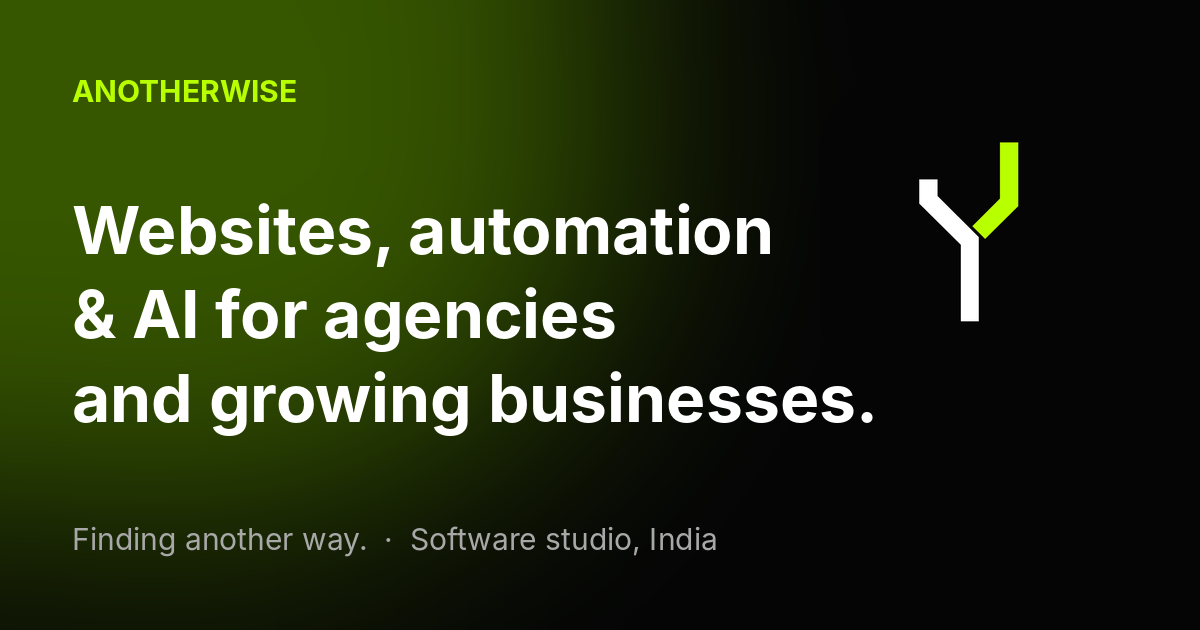
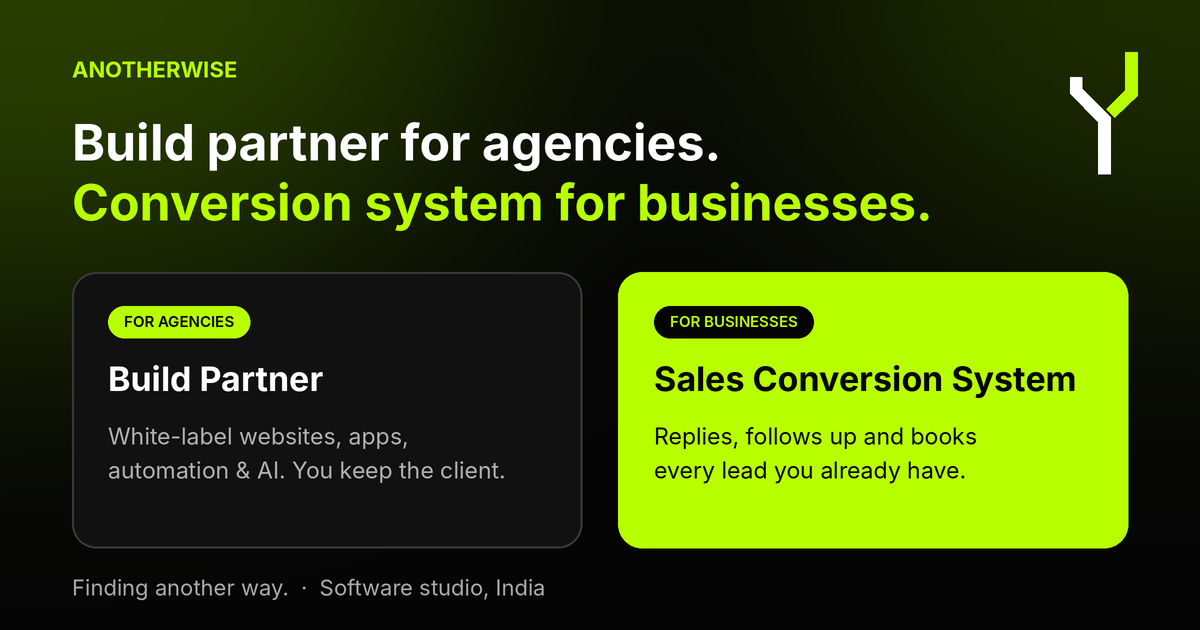
New social share image

diff --git a/index.html b/index.html
@@ -16,20 +16,20 @@
 <meta property="og:title" content="Agency Build Partner &amp; Lead Conversion System | Anotherwise">
 <meta property="og:description" content="Build partner for agencies: white-label websites, apps, automation and AI. For businesses: a sales conversion system that follows up and books every lead.">
 <meta property="og:url" content="https://anotherwise.netlify.app/">
-<meta property="og:image" content="https://anotherwise.netlify.app/og-image.png">
+<meta property="og:image" content="https://anotherwise.netlify.app/og-image.png?v=202611230016">
 <meta property="og:image:width" content="1200">
 <meta property="og:image:height" content="630">
 <meta property="og:image:alt" content="Anotherwise: Finding another way.">
 <meta name="twitter:card" content="summary_large_image">
 <meta name="twitter:title" content="Agency Build Partner &amp; Lead Conversion System | Anotherwise">
 <meta name="twitter:description" content="Build partner for agencies: white-label websites, apps, automation and AI. For businesses: a sales conversion system that follows up and books every lead.">
-<meta name="twitter:image" content="https://anotherwise.netlify.app/og-image.png">
+<meta name="twitter:image" content="https://anotherwise.netlify.app/og-image.png?v=202611230016">
 <link rel="icon" href="/favicon.ico" sizes="any">
 <link rel="icon" type="image/png" sizes="32x32" href="/icon-32.png">
 <link rel="icon" type="image/png" sizes="192x192" href="/icon-192.png">
 <link rel="apple-touch-icon" href="/apple-touch-icon.png">
 <link rel="manifest" href="/site.webmanifest">
-<script type="application/ld+json">{"@context":"https://schema.org","@graph":[{"@type":"Organization","@id":"https://anotherwise.netlify.app/#org","name":"Anotherwise","url":"https://anotherwise.netlify.app/","slogan":"Finding another way.","logo":{"@type":"ImageObject","url":"https://anotherwise.netlify.app/icon-512.png","width":512,"height":512},"telephone":"+919347435990","sameAs":["https://www.linkedin.com/in/ajay-goli-35182640b/"],"contactPoint":[{"@type":"ContactPoint","contactType":"sales","telephone":"+919347435990","availableLanguage":"English","areaServed":"Worldwide"}]},{"@type":"WebSite","@id":"https://anotherwise.netlify.app/#website","url":"https://anotherwise.netlify.app/","name":"Anotherwise","inLanguage":"en-IN","publisher":{"@id":"https://anotherwise.netlify.app/#org"}},{"@type":"ProfessionalService","@id":"https://anotherwise.netlify.app/#service","name":"Anotherwise","url":"https://anotherwise.netlify.app/","image":"https://anotherwise.netlify.app/og-image.png","description":"Independent software studio in India. Websites, custom software, automation and AI for agencies, startups and growing businesses. White-label or direct.","telephone":"+919347435990","parentOrganization":{"@id":"https://anotherwise.netlify.app/#org"},"areaServed":[{"@type":"Country","name":"India"},"Worldwide"],"hasOfferCatalog":{"@type":"OfferCatalog","name":"Services","itemListElement":[{"@type":"Offer","itemOffered":{"@type":"Service","name":"Websites","description":"Fast, clear websites and landing pages built to bring in enquiries.","provider":{"@id":"https://anotherwise.netlify.app/#org"}}},{"@type":"Offer","itemOffered":{"@type":"Service","name":"Custom software","description":"Custom web apps, portals, dashboards and business systems.","provider":{"@id":"https://anotherwise.netlify.app/#org"}}},{"@type":"Offer","itemOffered":{"@type":"Service","name":"Workflow automation","description":"Automations that connect your tools, qualify leads and remove manual work.","provider":{"@id":"https://anotherwise.netlify.app/#org"}}},{"@type":"Offer","itemOffered":{"@type":"Service","name":"AI assistants","description":"AI chat and voice assistants that answer from approved business information.","provider":{"@id":"https://anotherwise.netlify.app/#org"}}},{"@type":"Offer","itemOffered":{"@type":"Service","name":"Build Partner for agencies","description":"White-label or collaborative technical delivery for marketing, web, automation and social agencies.","provider":{"@id":"https://anotherwise.netlify.app/#org"}}},{"@type":"Offer","itemOffered":{"@type":"Service","name":"Sales Conversion System","description":"One connected system that answers every enquiry, follows up and books the appointment.","provider":{"@id":"https://anotherwise.netlify.app/#org"}}}]}},{"@type":"ItemList","name":"Case studies","itemListElement":[{"@type":"ListItem","position":1,"url":"https://anotherwise.netlify.app/casestudy1.html","name":"Chaitanya Bharath School"},{"@type":"ListItem","position":2,"url":"https://anotherwise.netlify.app/casestudy2.html","name":"Question Paper Generator"},{"@type":"ListItem","position":3,"url":"https://anotherwise.netlify.app/casestudy3.html","name":"Hospital Queue Management System"},{"@type":"ListItem","position":4,"url":"https://anotherwise.netlify.app/casestudy4.html","name":"Gym Trainer Platform"},{"@type":"ListItem","position":5,"url":"https://anotherwise.netlify.app/casestudy5.html","name":"VK Photography"}]}]}</script>
+<script type="application/ld+json">{"@context":"https://schema.org","@graph":[{"@type":"Organization","@id":"https://anotherwise.netlify.app/#org","name":"Anotherwise","url":"https://anotherwise.netlify.app/","slogan":"Finding another way.","logo":{"@type":"ImageObject","url":"https://anotherwise.netlify.app/icon-512.png","width":512,"height":512},"telephone":"+919347435990","sameAs":["https://www.linkedin.com/in/ajay-goli-35182640b/"],"contactPoint":[{"@type":"ContactPoint","contactType":"sales","telephone":"+919347435990","availableLanguage":"English","areaServed":"Worldwide"}]},{"@type":"WebSite","@id":"https://anotherwise.netlify.app/#website","url":"https://anotherwise.netlify.app/","name":"Anotherwise","inLanguage":"en-IN","publisher":{"@id":"https://anotherwise.netlify.app/#org"}},{"@type":"ProfessionalService","@id":"https://anotherwise.netlify.app/#service","name":"Anotherwise","url":"https://anotherwise.netlify.app/","image":"https://anotherwise.netlify.app/og-image.png?v=202611230016","description":"Independent software studio in India. Websites, custom software, automation and AI for agencies, startups and growing businesses. White-label or direct.","telephone":"+919347435990","parentOrganization":{"@id":"https://anotherwise.netlify.app/#org"},"areaServed":[{"@type":"Country","name":"India"},"Worldwide"],"hasOfferCatalog":{"@type":"OfferCatalog","name":"Services","itemListElement":[{"@type":"Offer","itemOffered":{"@type":"Service","name":"Websites","description":"Fast, clear websites and landing pages built to bring in enquiries.","provider":{"@id":"https://anotherwise.netlify.app/#org"}}},{"@type":"Offer","itemOffered":{"@type":"Service","name":"Custom software","description":"Custom web apps, portals, dashboards and business systems.","provider":{"@id":"https://anotherwise.netlify.app/#org"}}},{"@type":"Offer","itemOffered":{"@type":"Service","name":"Workflow automation","description":"Automations that connect your tools, qualify leads and remove manual work.","provider":{"@id":"https://anotherwise.netlify.app/#org"}}},{"@type":"Offer","itemOffered":{"@type":"Service","name":"AI assistants","description":"AI chat and voice assistants that answer from approved business information.","provider":{"@id":"https://anotherwise.netlify.app/#org"}}},{"@type":"Offer","itemOffered":{"@type":"Service","name":"Build Partner for agencies","description":"White-label or collaborative technical delivery for marketing, web, automation and social agencies.","provider":{"@id":"https://anotherwise.netlify.app/#org"}}},{"@type":"Offer","itemOffered":{"@type":"Service","name":"Sales Conversion System","description":"One connected system that answers every enquiry, follows up and books the appointment.","provider":{"@id":"https://anotherwise.netlify.app/#org"}}}]}},{"@type":"ItemList","name":"Case studies","itemListElement":[{"@type":"ListItem","position":1,"url":"https://anotherwise.netlify.app/casestudy1.html","name":"Chaitanya Bharath School"},{"@type":"ListItem","position":2,"url":"https://anotherwise.netlify.app/casestudy2.html","name":"Question Paper Generator"},{"@type":"ListItem","position":3,"url":"https://anotherwise.netlify.app/casestudy3.html","name":"Hospital Queue Management System"},{"@type":"ListItem","position":4,"url":"https://anotherwise.netlify.app/casestudy4.html","name":"Gym Trainer Platform"},{"@type":"ListItem","position":5,"url":"https://anotherwise.netlify.app/casestudy5.html","name":"VK Photography"}]}]}</script>
 <!--SEO:end-->
 <meta name="color-scheme" content="dark">
 <link rel="preconnect" href="https://fonts.googleapis.com">

diff --git a/casestudy3.html b/casestudy3.html
@@ -13,20 +13,20 @@
 <meta property="og:title" content="Hospital Queue Management System: City Care Case Study">
 <meta property="og:description" content="A real-time patient queue system that runs beside the hospital’s software. Reception, the waiting-room TV and every patient’s phone see one live queue.">
 <meta property="og:url" content="https://anotherwise.netlify.app/casestudy3.html">
-<meta property="og:image" content="https://anotherwise.netlify.app/og-image.png">
+<meta property="og:image" content="https://anotherwise.netlify.app/og-image.png?v=202611230016">
 <meta property="og:image:width" content="1200">
 <meta property="og:image:height" content="630">
 <meta property="og:image:alt" content="Anotherwise: Finding another way.">
 <meta name="twitter:card" content="summary_large_image">
 <meta name="twitter:title" content="Hospital Queue Management System: City Care Case Study">
 <meta name="twitter:description" content="A real-time patient queue system that runs beside the hospital’s software. Reception, the waiting-room TV and every patient’s phone see one live queue.">
-<meta name="twitter:image" content="https://anotherwise.netlify.app/og-image.png">
+<meta name="twitter:image" content="https://anotherwise.netlify.app/og-image.png?v=202611230016">
 <link rel="icon" href="/favicon.ico" sizes="any">
 <link rel="icon" type="image/png" sizes="32x32" href="/icon-32.png">
 <link rel="icon" type="image/png" sizes="192x192" href="/icon-192.png">
 <link rel="apple-touch-icon" href="/apple-touch-icon.png">
 <link rel="manifest" href="/site.webmanifest">
-<script type="application/ld+json">{"@context":"https://schema.org","@graph":[{"@type":"Organization","@id":"https://anotherwise.netlify.app/#org","name":"Anotherwise","url":"https://anotherwise.netlify.app/"},{"@type":"WebSite","@id":"https://anotherwise.netlify.app/#website","url":"https://anotherwise.netlify.app/","name":"Anotherwise","publisher":{"@id":"https://anotherwise.netlify.app/#org"}},{"@type":"WebPage","@id":"https://anotherwise.netlify.app/casestudy3.html#page","url":"https://anotherwise.netlify.app/casestudy3.html","name":"Hospital Queue Management System · Concept Build","description":"Concept build: real-time hospital queue management with patient tokens, a reception dashboard, a waiting-room display and live phone tracking. Demo data.","inLanguage":"en-IN","isPartOf":{"@id":"https://anotherwise.netlify.app/#website"},"primaryImageOfPage":{"@type":"ImageObject","url":"https://anotherwise.netlify.app/og-image.png"},"breadcrumb":{"@id":"https://anotherwise.netlify.app/casestudy3.html#crumbs"},"about":"Hospital Queue Management System","author":{"@id":"https://anotherwise.netlify.app/#org"}},{"@type":"BreadcrumbList","itemListElement":[{"@type":"ListItem","position":1,"name":"Home","item":"https://anotherwise.netlify.app/"},{"@type":"ListItem","position":2,"name":"Case studies","item":"https://anotherwise.netlify.app/#work"},{"@type":"ListItem","position":3,"name":"Hospital Queue Management System","item":"https://anotherwise.netlify.app/casestudy3.html"}],"@id":"https://anotherwise.netlify.app/casestudy3.html#crumbs"}]}</script>
+<script type="application/ld+json">{"@context":"https://schema.org","@graph":[{"@type":"Organization","@id":"https://anotherwise.netlify.app/#org","name":"Anotherwise","url":"https://anotherwise.netlify.app/"},{"@type":"WebSite","@id":"https://anotherwise.netlify.app/#website","url":"https://anotherwise.netlify.app/","name":"Anotherwise","publisher":{"@id":"https://anotherwise.netlify.app/#org"}},{"@type":"WebPage","@id":"https://anotherwise.netlify.app/casestudy3.html#page","url":"https://anotherwise.netlify.app/casestudy3.html","name":"Hospital Queue Management System · Concept Build","description":"Concept build: real-time hospital queue management with patient tokens, a reception dashboard, a waiting-room display and live phone tracking. Demo data.","inLanguage":"en-IN","isPartOf":{"@id":"https://anotherwise.netlify.app/#website"},"primaryImageOfPage":{"@type":"ImageObject","url":"https://anotherwise.netlify.app/og-image.png?v=202611230016"},"breadcrumb":{"@id":"https://anotherwise.netlify.app/casestudy3.html#crumbs"},"about":"Hospital Queue Management System","author":{"@id":"https://anotherwise.netlify.app/#org"}},{"@type":"BreadcrumbList","itemListElement":[{"@type":"ListItem","position":1,"name":"Home","item":"https://anotherwise.netlify.app/"},{"@type":"ListItem","position":2,"name":"Case studies","item":"https://anotherwise.netlify.app/#work"},{"@type":"ListItem","position":3,"name":"Hospital Queue Management System","item":"https://anotherwise.netlify.app/casestudy3.html"}],"@id":"https://anotherwise.netlify.app/casestudy3.html#crumbs"}]}</script>
 <!--SEO:end-->
 <link href="https://fonts.googleapis.com/css2?family=Inter:wght@300;400;500&family=JetBrains+Mono:wght@400;500&family=Space+Grotesk:wght@500;600;700&display=swap" rel="stylesheet">
 <style>

diff --git a/casestudy1.html b/casestudy1.html
@@ -13,20 +13,20 @@
 <meta property="og:title" content="School Website Design Case Study: Chaitanya Bharath School">
 <meta property="og:description" content="How we built a parent-first school website that builds trust fast and turns visits into admission enquiries, one tap away. Case study by Anotherwise.">
 <meta property="og:url" content="https://anotherwise.netlify.app/casestudy1.html">
-<meta property="og:image" content="https://anotherwise.netlify.app/og-image.png">
+<meta property="og:image" content="https://anotherwise.netlify.app/og-image.png?v=202611230016">
 <meta property="og:image:width" content="1200">
 <meta property="og:image:height" content="630">
 <meta property="og:image:alt" content="Anotherwise: Finding another way.">
 <meta name="twitter:card" content="summary_large_image">
 <meta name="twitter:title" content="School Website Design Case Study: Chaitanya Bharath School">
 <meta name="twitter:description" content="How we built a parent-first school website that builds trust fast and turns visits into admission enquiries, one tap away. Case study by Anotherwise.">
-<meta name="twitter:image" content="https://anotherwise.netlify.app/og-image.png">
+<meta name="twitter:image" content="https://anotherwise.netlify.app/og-image.png?v=202611230016">
 <link rel="icon" href="/favicon.ico" sizes="any">
 <link rel="icon" type="image/png" sizes="32x32" href="/icon-32.png">
 <link rel="icon" type="image/png" sizes="192x192" href="/icon-192.png">
 <link rel="apple-touch-icon" href="/apple-touch-icon.png">
 <link rel="manifest" href="/site.webmanifest">
-<script type="application/ld+json">{"@context":"https://schema.org","@graph":[{"@type":"Organization","@id":"https://anotherwise.netlify.app/#org","name":"Anotherwise","url":"https://anotherwise.netlify.app/"},{"@type":"WebSite","@id":"https://anotherwise.netlify.app/#website","url":"https://anotherwise.netlify.app/","name":"Anotherwise","publisher":{"@id":"https://anotherwise.netlify.app/#org"}},{"@type":"WebPage","@id":"https://anotherwise.netlify.app/casestudy1.html#page","url":"https://anotherwise.netlify.app/casestudy1.html","name":"School Website for Admissions · Case Study | Anotherwise","description":"A parent-first school website for Nursery to Grade 7 that builds trust fast and makes an admission enquiry one tap away. Designed and built by Anotherwise.","inLanguage":"en-IN","isPartOf":{"@id":"https://anotherwise.netlify.app/#website"},"primaryImageOfPage":{"@type":"ImageObject","url":"https://anotherwise.netlify.app/og-image.png"},"breadcrumb":{"@id":"https://anotherwise.netlify.app/casestudy1.html#crumbs"},"about":"Chaitanya Bharath School","author":{"@id":"https://anotherwise.netlify.app/#org"}},{"@type":"BreadcrumbList","itemListElement":[{"@type":"ListItem","position":1,"name":"Home","item":"https://anotherwise.netlify.app/"},{"@type":"ListItem","position":2,"name":"Case studies","item":"https://anotherwise.netlify.app/#work"},{"@type":"ListItem","position":3,"name":"Chaitanya Bharath School","item":"https://anotherwise.netlify.app/casestudy1.html"}],"@id":"https://anotherwise.netlify.app/casestudy1.html#crumbs"}]}</script>
+<script type="application/ld+json">{"@context":"https://schema.org","@graph":[{"@type":"Organization","@id":"https://anotherwise.netlify.app/#org","name":"Anotherwise","url":"https://anotherwise.netlify.app/"},{"@type":"WebSite","@id":"https://anotherwise.netlify.app/#website","url":"https://anotherwise.netlify.app/","name":"Anotherwise","publisher":{"@id":"https://anotherwise.netlify.app/#org"}},{"@type":"WebPage","@id":"https://anotherwise.netlify.app/casestudy1.html#page","url":"https://anotherwise.netlify.app/casestudy1.html","name":"School Website for Admissions · Case Study | Anotherwise","description":"A parent-first school website for Nursery to Grade 7 that builds trust fast and makes an admission enquiry one tap away. Designed and built by Anotherwise.","inLanguage":"en-IN","isPartOf":{"@id":"https://anotherwise.netlify.app/#website"},"primaryImageOfPage":{"@type":"ImageObject","url":"https://anotherwise.netlify.app/og-image.png?v=202611230016"},"breadcrumb":{"@id":"https://anotherwise.netlify.app/casestudy1.html#crumbs"},"about":"Chaitanya Bharath School","author":{"@id":"https://anotherwise.netlify.app/#org"}},{"@type":"BreadcrumbList","itemListElement":[{"@type":"ListItem","position":1,"name":"Home","item":"https://anotherwise.netlify.app/"},{"@type":"ListItem","position":2,"name":"Case studies","item":"https://anotherwise.netlify.app/#work"},{"@type":"ListItem","position":3,"name":"Chaitanya Bharath School","item":"https://anotherwise.netlify.app/casestudy1.html"}],"@id":"https://anotherwise.netlify.app/casestudy1.html#crumbs"}]}</script>
 <!--SEO:end-->
 <link href="https://fonts.googleapis.com/css2?family=Inter:wght@300;400;500&family=JetBrains+Mono:wght@400;500&family=Space+Grotesk:wght@500;600;700&display=swap" rel="stylesheet">
 <style>

diff --git a/casestudy2.html b/casestudy2.html
@@ -13,20 +13,20 @@
 <meta property="og:title" content="AI Question Paper Generator (n8n Workflow Case Study)">
 <meta property="og:description" content="Four n8n workflows turn typed questions or a photo into a print-ready PDF exam paper, so teachers stop losing hours to formatting.">
 <meta property="og:url" content="https://anotherwise.netlify.app/casestudy2.html">
-<meta property="og:image" content="https://anotherwise.netlify.app/og-image.png">
+<meta property="og:image" content="https://anotherwise.netlify.app/og-image.png?v=202611230016">
 <meta property="og:image:width" content="1200">
 <meta property="og:image:height" content="630">
 <meta property="og:image:alt" content="Anotherwise: Finding another way.">
 <meta name="twitter:card" content="summary_large_image">
 <meta name="twitter:title" content="AI Question Paper Generator (n8n Workflow Case Study)">
 <meta name="twitter:description" content="Four n8n workflows turn typed questions or a photo into a print-ready PDF exam paper, so teachers stop losing hours to formatting.">
-<meta name="twitter:image" content="https://anotherwise.netlify.app/og-image.png">
+<meta name="twitter:image" content="https://anotherwise.netlify.app/og-image.png?v=202611230016">
 <link rel="icon" href="/favicon.ico" sizes="any">
 <link rel="icon" type="image/png" sizes="32x32" href="/icon-32.png">
 <link rel="icon" type="image/png" sizes="192x192" href="/icon-192.png">
 <link rel="apple-touch-icon" href="/apple-touch-icon.png">
 <link rel="manifest" href="/site.webmanifest">
-<script type="application/ld+json">{"@context":"https://schema.org","@graph":[{"@type":"Organization","@id":"https://anotherwise.netlify.app/#org","name":"Anotherwise","url":"https://anotherwise.netlify.app/"},{"@type":"WebSite","@id":"https://anotherwise.netlify.app/#website","url":"https://anotherwise.netlify.app/","name":"Anotherwise","publisher":{"@id":"https://anotherwise.netlify.app/#org"}},{"@type":"WebPage","@id":"https://anotherwise.netlify.app/casestudy2.html#page","url":"https://anotherwise.netlify.app/casestudy2.html","name":"Exam Paper Automation with n8n · Case Study | Anotherwise","description":"Four connected n8n workflows turn typed or photographed questions into print-ready PDF question papers, with the teacher's original wording kept intact.","inLanguage":"en-IN","isPartOf":{"@id":"https://anotherwise.netlify.app/#website"},"primaryImageOfPage":{"@type":"ImageObject","url":"https://anotherwise.netlify.app/og-image.png"},"breadcrumb":{"@id":"https://anotherwise.netlify.app/casestudy2.html#crumbs"},"about":"Question Paper Generator","author":{"@id":"https://anotherwise.netlify.app/#org"}},{"@type":"BreadcrumbList","itemListElement":[{"@type":"ListItem","position":1,"name":"Home","item":"https://anotherwise.netlify.app/"},{"@type":"ListItem","position":2,"name":"Case studies","item":"https://anotherwise.netlify.app/#work"},{"@type":"ListItem","position":3,"name":"Question Paper Generator","item":"https://anotherwise.netlify.app/casestudy2.html"}],"@id":"https://anotherwise.netlify.app/casestudy2.html#crumbs"}]}</script>
+<script type="application/ld+json">{"@context":"https://schema.org","@graph":[{"@type":"Organization","@id":"https://anotherwise.netlify.app/#org","name":"Anotherwise","url":"https://anotherwise.netlify.app/"},{"@type":"WebSite","@id":"https://anotherwise.netlify.app/#website","url":"https://anotherwise.netlify.app/","name":"Anotherwise","publisher":{"@id":"https://anotherwise.netlify.app/#org"}},{"@type":"WebPage","@id":"https://anotherwise.netlify.app/casestudy2.html#page","url":"https://anotherwise.netlify.app/casestudy2.html","name":"Exam Paper Automation with n8n · Case Study | Anotherwise","description":"Four connected n8n workflows turn typed or photographed questions into print-ready PDF question papers, with the teacher's original wording kept intact.","inLanguage":"en-IN","isPartOf":{"@id":"https://anotherwise.netlify.app/#website"},"primaryImageOfPage":{"@type":"ImageObject","url":"https://anotherwise.netlify.app/og-image.png?v=202611230016"},"breadcrumb":{"@id":"https://anotherwise.netlify.app/casestudy2.html#crumbs"},"about":"Question Paper Generator","author":{"@id":"https://anotherwise.netlify.app/#org"}},{"@type":"BreadcrumbList","itemListElement":[{"@type":"ListItem","position":1,"name":"Home","item":"https://anotherwise.netlify.app/"},{"@type":"ListItem","position":2,"name":"Case studies","item":"https://anotherwise.netlify.app/#work"},{"@type":"ListItem","position":3,"name":"Question Paper Generator","item":"https://anotherwise.netlify.app/casestudy2.html"}],"@id":"https://anotherwise.netlify.app/casestudy2.html#crumbs"}]}</script>
 <!--SEO:end-->
 <link href="https://fonts.googleapis.com/css2?family=Inter:wght@300;400;500&family=JetBrains+Mono:wght@400;500&family=Space+Grotesk:wght@500;600;700&display=swap" rel="stylesheet">
 <style>

diff --git a/casestudy4.html b/casestudy4.html
@@ -13,20 +13,20 @@
 <meta property="og:title" content="Gym Trainer Software: Workout &amp; Diet Plan Platform">
 <meta property="og:description" content="A platform where trainers build workout and diet plans for each client and track what they actually did. Case study for Shakti Kinetic.">
 <meta property="og:url" content="https://anotherwise.netlify.app/casestudy4.html">
-<meta property="og:image" content="https://anotherwise.netlify.app/og-image.png">
+<meta property="og:image" content="https://anotherwise.netlify.app/og-image.png?v=202611230016">
 <meta property="og:image:width" content="1200">
 <meta property="og:image:height" content="630">
 <meta property="og:image:alt" content="Anotherwise: Finding another way.">
 <meta name="twitter:card" content="summary_large_image">
 <meta name="twitter:title" content="Gym Trainer Software: Workout &amp; Diet Plan Platform">
 <meta name="twitter:description" content="A platform where trainers build workout and diet plans for each client and track what they actually did. Case study for Shakti Kinetic.">
-<meta name="twitter:image" content="https://anotherwise.netlify.app/og-image.png">
+<meta name="twitter:image" content="https://anotherwise.netlify.app/og-image.png?v=202611230016">
 <link rel="icon" href="/favicon.ico" sizes="any">
 <link rel="icon" type="image/png" sizes="32x32" href="/icon-32.png">
 <link rel="icon" type="image/png" sizes="192x192" href="/icon-192.png">
 <link rel="apple-touch-icon" href="/apple-touch-icon.png">
 <link rel="manifest" href="/site.webmanifest">
-<script type="application/ld+json">{"@context":"https://schema.org","@graph":[{"@type":"Organization","@id":"https://anotherwise.netlify.app/#org","name":"Anotherwise","url":"https://anotherwise.netlify.app/"},{"@type":"WebSite","@id":"https://anotherwise.netlify.app/#website","url":"https://anotherwise.netlify.app/","name":"Anotherwise","publisher":{"@id":"https://anotherwise.netlify.app/#org"}},{"@type":"WebPage","@id":"https://anotherwise.netlify.app/casestudy4.html#page","url":"https://anotherwise.netlify.app/casestudy4.html","name":"Gym Trainer App: Workout & Diet Plans · Concept Build","description":"Concept build: a gym trainer platform to create workout and diet plans, assign each to one client and see what they actually did. Demo data.","inLanguage":"en-IN","isPartOf":{"@id":"https://anotherwise.netlify.app/#website"},"primaryImageOfPage":{"@type":"ImageObject","url":"https://anotherwise.netlify.app/og-image.png"},"breadcrumb":{"@id":"https://anotherwise.netlify.app/casestudy4.html#crumbs"},"about":"Gym Trainer Platform","author":{"@id":"https://anotherwise.netlify.app/#org"}},{"@type":"BreadcrumbList","itemListElement":[{"@type":"ListItem","position":1,"name":"Home","item":"https://anotherwise.netlify.app/"},{"@type":"ListItem","position":2,"name":"Case studies","item":"https://anotherwise.netlify.app/#work"},{"@type":"ListItem","position":3,"name":"Gym Trainer Platform","item":"https://anotherwise.netlify.app/casestudy4.html"}],"@id":"https://anotherwise.netlify.app/casestudy4.html#crumbs"}]}</script>
+<script type="application/ld+json">{"@context":"https://schema.org","@graph":[{"@type":"Organization","@id":"https://anotherwise.netlify.app/#org","name":"Anotherwise","url":"https://anotherwise.netlify.app/"},{"@type":"WebSite","@id":"https://anotherwise.netlify.app/#website","url":"https://anotherwise.netlify.app/","name":"Anotherwise","publisher":{"@id":"https://anotherwise.netlify.app/#org"}},{"@type":"WebPage","@id":"https://anotherwise.netlify.app/casestudy4.html#page","url":"https://anotherwise.netlify.app/casestudy4.html","name":"Gym Trainer App: Workout & Diet Plans · Concept Build","description":"Concept build: a gym trainer platform to create workout and diet plans, assign each to one client and see what they actually did. Demo data.","inLanguage":"en-IN","isPartOf":{"@id":"https://anotherwise.netlify.app/#website"},"primaryImageOfPage":{"@type":"ImageObject","url":"https://anotherwise.netlify.app/og-image.png?v=202611230016"},"breadcrumb":{"@id":"https://anotherwise.netlify.app/casestudy4.html#crumbs"},"about":"Gym Trainer Platform","author":{"@id":"https://anotherwise.netlify.app/#org"}},{"@type":"BreadcrumbList","itemListElement":[{"@type":"ListItem","position":1,"name":"Home","item":"https://anotherwise.netlify.app/"},{"@type":"ListItem","position":2,"name":"Case studies","item":"https://anotherwise.netlify.app/#work"},{"@type":"ListItem","position":3,"name":"Gym Trainer Platform","item":"https://anotherwise.netlify.app/casestudy4.html"}],"@id":"https://anotherwise.netlify.app/casestudy4.html#crumbs"}]}</script>
 <!--SEO:end-->
 <link href="https://fonts.googleapis.com/css2?family=Inter:wght@300;400;500&family=JetBrains+Mono:wght@400;500&family=Space+Grotesk:wght@500;600;700&display=swap" rel="stylesheet">
 <style>

diff --git a/casestudy5.html b/casestudy5.html
@@ -13,20 +13,20 @@
 <meta property="og:title" content="Photographer Website with Online Shop: VK Photography">
 <meta property="og:description" content="One website for a Hyderabad photo studio: wedding shoots sold by quotation and personalised frames and gifts sold through an online shop.">
 <meta property="og:url" content="https://anotherwise.netlify.app/casestudy5.html">
-<meta property="og:image" content="https://anotherwise.netlify.app/og-image.png">
+<meta property="og:image" content="https://anotherwise.netlify.app/og-image.png?v=202611230016">
 <meta property="og:image:width" content="1200">
 <meta property="og:image:height" content="630">
 <meta property="og:image:alt" content="Anotherwise: Finding another way.">
 <meta name="twitter:card" content="summary_large_image">
 <meta name="twitter:title" content="Photographer Website with Online Shop: VK Photography">
 <meta name="twitter:description" content="One website for a Hyderabad photo studio: wedding shoots sold by quotation and personalised frames and gifts sold through an online shop.">
-<meta name="twitter:image" content="https://anotherwise.netlify.app/og-image.png">
+<meta name="twitter:image" content="https://anotherwise.netlify.app/og-image.png?v=202611230016">
 <link rel="icon" href="/favicon.ico" sizes="any">
 <link rel="icon" type="image/png" sizes="32x32" href="/icon-32.png">
 <link rel="icon" type="image/png" sizes="192x192" href="/icon-192.png">
 <link rel="apple-touch-icon" href="/apple-touch-icon.png">
 <link rel="manifest" href="/site.webmanifest">
-<script type="application/ld+json">{"@context":"https://schema.org","@graph":[{"@type":"Organization","@id":"https://anotherwise.netlify.app/#org","name":"Anotherwise","url":"https://anotherwise.netlify.app/"},{"@type":"WebSite","@id":"https://anotherwise.netlify.app/#website","url":"https://anotherwise.netlify.app/","name":"Anotherwise","publisher":{"@id":"https://anotherwise.netlify.app/#org"}},{"@type":"WebPage","@id":"https://anotherwise.netlify.app/casestudy5.html#page","url":"https://anotherwise.netlify.app/casestudy5.html","name":"Photography Ecommerce Website · VK Photography Case Study","description":"How Anotherwise built a custom website with a live ecommerce shop and a quotation flow for VK Photography, a photo studio in Hyderabad.","inLanguage":"en-IN","isPartOf":{"@id":"https://anotherwise.netlify.app/#website"},"primaryImageOfPage":{"@type":"ImageObject","url":"https://anotherwise.netlify.app/og-image.png"},"breadcrumb":{"@id":"https://anotherwise.netlify.app/casestudy5.html#crumbs"},"about":"VK Photography","author":{"@id":"https://anotherwise.netlify.app/#org"}},{"@type":"BreadcrumbList","itemListElement":[{"@type":"ListItem","position":1,"name":"Home","item":"https://anotherwise.netlify.app/"},{"@type":"ListItem","position":2,"name":"Case studies","item":"https://anotherwise.netlify.app/#work"},{"@type":"ListItem","position":3,"name":"VK Photography","item":"https://anotherwise.netlify.app/casestudy5.html"}],"@id":"https://anotherwise.netlify.app/casestudy5.html#crumbs"}]}</script>
+<script type="application/ld+json">{"@context":"https://schema.org","@graph":[{"@type":"Organization","@id":"https://anotherwise.netlify.app/#org","name":"Anotherwise","url":"https://anotherwise.netlify.app/"},{"@type":"WebSite","@id":"https://anotherwise.netlify.app/#website","url":"https://anotherwise.netlify.app/","name":"Anotherwise","publisher":{"@id":"https://anotherwise.netlify.app/#org"}},{"@type":"WebPage","@id":"https://anotherwise.netlify.app/casestudy5.html#page","url":"https://anotherwise.netlify.app/casestudy5.html","name":"Photography Ecommerce Website · VK Photography Case Study","description":"How Anotherwise built a custom website with a live ecommerce shop and a quotation flow for VK Photography, a photo studio in Hyderabad.","inLanguage":"en-IN","isPartOf":{"@id":"https://anotherwise.netlify.app/#website"},"primaryImageOfPage":{"@type":"ImageObject","url":"https://anotherwise.netlify.app/og-image.png?v=202611230016"},"breadcrumb":{"@id":"https://anotherwise.netlify.app/casestudy5.html#crumbs"},"about":"VK Photography","author":{"@id":"https://anotherwise.netlify.app/#org"}},{"@type":"BreadcrumbList","itemListElement":[{"@type":"ListItem","position":1,"name":"Home","item":"https://anotherwise.netlify.app/"},{"@type":"ListItem","position":2,"name":"Case studies","item":"https://anotherwise.netlify.app/#work"},{"@type":"ListItem","position":3,"name":"VK Photography","item":"https://anotherwise.netlify.app/casestudy5.html"}],"@id":"https://anotherwise.netlify.app/casestudy5.html#crumbs"}]}</script>
 <!--SEO:end-->
 <link href="https://fonts.googleapis.com/css2?family=Inter:wght@300;400;500&family=JetBrains+Mono:wght@400;500&family=Space+Grotesk:wght@500;600;700&display=swap" rel="stylesheet">
 <style>

diff --git a/contact.html b/contact.html
@@ -16,20 +16,20 @@
 <meta property="og:title" content="Hire a Delivery Partner or Convert More Leads | Anotherwise">
 <meta property="og:description" content="Agency needing a white-label delivery partner, or a business losing leads? Tell us what you need. We reply within 24 hours.">
 <meta property="og:url" content="https://anotherwise.netlify.app/contact.html">
-<meta property="og:image" content="https://anotherwise.netlify.app/og-image.png">
+<meta property="og:image" content="https://anotherwise.netlify.app/og-image.png?v=202611230016">
 <meta property="og:image:width" content="1200">
 <meta property="og:image:height" content="630">
 <meta property="og:image:alt" content="Anotherwise: Finding another way.">
 <meta name="twitter:card" content="summary_large_image">
 <meta name="twitter:title" content="Hire a Delivery Partner or Convert More Leads | Anotherwise">
 <meta name="twitter:description" content="Agency needing a white-label delivery partner, or a business losing leads? Tell us what you need. We reply within 24 hours.">
-<meta name="twitter:image" content="https://anotherwise.netlify.app/og-image.png">
+<meta name="twitter:image" content="https://anotherwise.netlify.app/og-image.png?v=202611230016">
 <link rel="icon" href="/favicon.ico" sizes="any">
 <link rel="icon" type="image/png" sizes="32x32" href="/icon-32.png">
 <link rel="icon" type="image/png" sizes="192x192" href="/icon-192.png">
 <link rel="apple-touch-icon" href="/apple-touch-icon.png">
 <link rel="manifest" href="/site.webmanifest">
-<script type="application/ld+json">{"@context":"https://schema.org","@graph":[{"@type":"Organization","@id":"https://anotherwise.netlify.app/#org","name":"Anotherwise","url":"https://anotherwise.netlify.app/"},{"@type":"WebSite","@id":"https://anotherwise.netlify.app/#website","url":"https://anotherwise.netlify.app/","name":"Anotherwise","publisher":{"@id":"https://anotherwise.netlify.app/#org"}},{"@type":"ContactPage","@id":"https://anotherwise.netlify.app/contact.html#page","url":"https://anotherwise.netlify.app/contact.html","name":"Contact Anotherwise · Start a Software or Automation Project","description":"Agency needing a technical delivery partner, or a business with a problem to solve? Tell Anotherwise what you need. We reply within 24 hours.","inLanguage":"en-IN","isPartOf":{"@id":"https://anotherwise.netlify.app/#website"},"primaryImageOfPage":{"@type":"ImageObject","url":"https://anotherwise.netlify.app/og-image.png"},"breadcrumb":{"@id":"https://anotherwise.netlify.app/contact.html#crumbs"}},{"@type":"BreadcrumbList","itemListElement":[{"@type":"ListItem","position":1,"name":"Home","item":"https://anotherwise.netlify.app/"},{"@type":"ListItem","position":2,"name":"Contact","item":"https://anotherwise.netlify.app/contact.html"}],"@id":"https://anotherwise.netlify.app/contact.html#crumbs"}]}</script>
+<script type="application/ld+json">{"@context":"https://schema.org","@graph":[{"@type":"Organization","@id":"https://anotherwise.netlify.app/#org","name":"Anotherwise","url":"https://anotherwise.netlify.app/"},{"@type":"WebSite","@id":"https://anotherwise.netlify.app/#website","url":"https://anotherwise.netlify.app/","name":"Anotherwise","publisher":{"@id":"https://anotherwise.netlify.app/#org"}},{"@type":"ContactPage","@id":"https://anotherwise.netlify.app/contact.html#page","url":"https://anotherwise.netlify.app/contact.html","name":"Contact Anotherwise · Start a Software or Automation Project","description":"Agency needing a technical delivery partner, or a business with a problem to solve? Tell Anotherwise what you need. We reply within 24 hours.","inLanguage":"en-IN","isPartOf":{"@id":"https://anotherwise.netlify.app/#website"},"primaryImageOfPage":{"@type":"ImageObject","url":"https://anotherwise.netlify.app/og-image.png?v=202611230016"},"breadcrumb":{"@id":"https://anotherwise.netlify.app/contact.html#crumbs"}},{"@type":"BreadcrumbList","itemListElement":[{"@type":"ListItem","position":1,"name":"Home","item":"https://anotherwise.netlify.app/"},{"@type":"ListItem","position":2,"name":"Contact","item":"https://anotherwise.netlify.app/contact.html"}],"@id":"https://anotherwise.netlify.app/contact.html#crumbs"}]}</script>
 <!--SEO:end-->
 <meta name="color-scheme" content="dark">
 <link rel="preconnect" href="https://fonts.googleapis.com">

diff --git a/tools/seo_build.py b/tools/seo_build.py
@@ -103,7 +103,7 @@ def schema_for(fn, p):
             {"@type": "WebSite", "@id": site_id, "url": SITE + "/", "name": BRAND, "inLanguage": "en-IN",
              "publisher": {"@id": org_id}},
             {"@type": "ProfessionalService", "@id": SITE + "/#service", "name": BRAND, "url": SITE + "/",
-             "image": abs_url("/og-image.png"), "description": p["desc"], "telephone": PHONE,
+             "image": abs_url("/og-image.png?v=202611230016"), "description": p["desc"], "telephone": PHONE,
              "parentOrganization": {"@id": org_id},
              "areaServed": [{"@type": "Country", "name": "India"}, "Worldwide"],
              "hasOfferCatalog": {"@type": "OfferCatalog", "name": "Services", "itemListElement": [
@@ -120,7 +120,7 @@ def schema_for(fn, p):
     crumbs.append((p["crumb"], abs_url(p["url"])))
     page = {"@type": "ContactPage" if p["kind"] == "contact" else "WebPage", "@id": abs_url(p["url"]) + "#page",
             "url": abs_url(p["url"]), "name": p["title"], "description": p["desc"], "inLanguage": "en-IN",
-            "isPartOf": {"@id": site_id}, "primaryImageOfPage": {"@type": "ImageObject", "url": abs_url("/og-image.png")},
+            "isPartOf": {"@id": site_id}, "primaryImageOfPage": {"@type": "ImageObject", "url": abs_url("/og-image.png?v=202611230016")},
             "breadcrumb": {"@id": abs_url(p["url"]) + "#crumbs"}}
     if p["kind"] == "case":
         page["about"] = p["crumb"]
@@ -150,14 +150,14 @@ def head_block(fn, p):
         f'<meta property="og:title" content="{e(p["title"], quote=True)}">',
         f'<meta property="og:description" content="{e(p["desc"], quote=True)}">',
         f'<meta property="og:url" content="{u}">',
-        f'<meta property="og:image" content="{abs_url("/og-image.png")}">',
+        f'<meta property="og:image" content="{abs_url("/og-image.png?v=202611230016")}">',
         '<meta property="og:image:width" content="1200">',
         '<meta property="og:image:height" content="630">',
         f'<meta property="og:image:alt" content="{BRAND}: {TAGLINE}">',
         '<meta name="twitter:card" content="summary_large_image">',
         f'<meta name="twitter:title" content="{e(p["title"], quote=True)}">',
         f'<meta name="twitter:description" content="{e(p["desc"], quote=True)}">',
-        f'<meta name="twitter:image" content="{abs_url("/og-image.png")}">',
+        f'<meta name="twitter:image" content="{abs_url("/og-image.png?v=202611230016")}">',
         '<link rel="icon" href="/favicon.ico" sizes="any">',
         '<link rel="icon" type="image/png" sizes="32x32" href="/icon-32.png">',
         '<link rel="icon" type="image/png" sizes="192x192" href="/icon-192.png">',
@@ -332,7 +332,7 @@ def make_images():
     d.text((72, 520), TAGLINE + "  ·  Software studio, India", font=font(30, False), fill=(168, 168, 168))
     big = icon.resize((300, 300), Image.LANCZOS)
     img.paste(big, (W - 300 - 80, 80), big)
-    img.save(ROOT / "og-image.png", optimize=True)
+    # img.save(ROOT / "og-image.png", optimize=True)
 
 
 def main():
